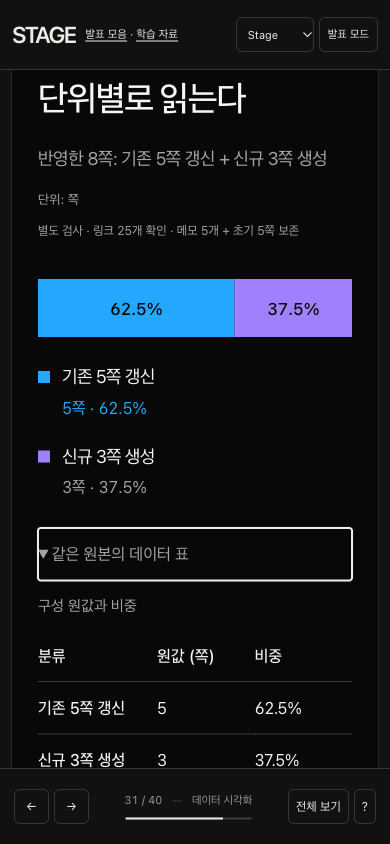
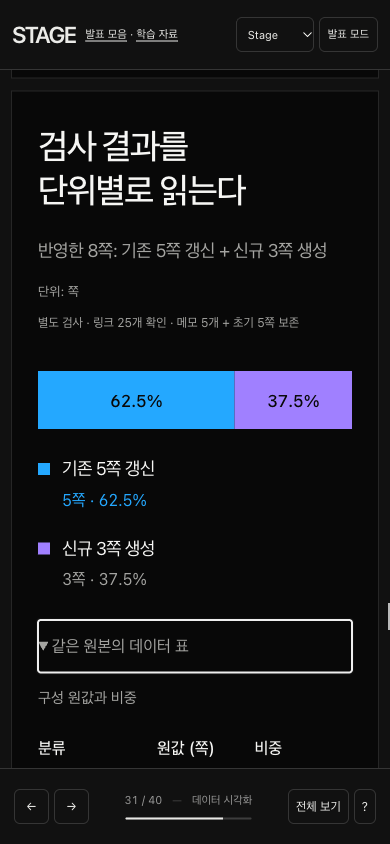
Record the typography and visual review deployment checks

diff --git a/research/llm-wiki-polish-20261029/DEPLOYMENT.md b/research/llm-wiki-polish-20261029/DEPLOYMENT.md
@@ -1,0 +1,35 @@
+# 문장·시각 전달 교정 공개 검수
+
+2026-10-29, 원고 교정 [`7b9cd0c`](https://github.com/OU9999/stage-presentation-kit/commit/7b9cd0c34fb1150572efa3ed8bfe1f11d8f9ee15)과 읽기 제목 가림 수정 [`4b35cfb`](https://github.com/OU9999/stage-presentation-kit/commit/4b35cfb90e5ba363b299c1eac2e77314f2717e1d)을 main에 push했다.
+
+- 원고 배포 [40800433787](https://github.com/OU9999/stage-presentation-kit/actions/runs/40800433787): 같은 SHA 성공. 공개 40장·차트/흐름·참여·모바일·학습 자료를 확인했다.
+- 제목 가림 수정 배포 [40801647000](https://github.com/OU9999/stage-presentation-kit/actions/runs/40801647000): 같은 SHA 성공/API built. 공개 읽기 앵커 회귀와 원값/참여를 다시 확인했다.
+
+최종 Pages API/실행 응답은 `evidence/pages-build.json`·`pages-run.json`, 최종 파일 비교는 `public-http.json`에 있다. 발표·자료·자산·공유 runtime/목차/manifest29파일이 모두200이고 로컬 전체 바이트와 같다.
+
+## 공개 화면과 실제 동작
+
[1 lines of base64/hex data omitted]
+
+| 범위 | 공개 확인 결과 | 근거 |
+| --- | --- | --- |
+| 발표40장 | 최신 원고·잘림/진단/오류0·불필요 사진 메타0 | `public-slides.json`, `public-visual-match.json`, `screens/public-slide-*` |
+| 문장·사진 | 줄 고립을 고친9/12/13/15/23/25/28/38과 사진/인용/도식을 실제 PNG로 확인 | 같은 화면 기록 |
+| 차트 | 같은 단위5/3쪽·8합계·62.5/37.5%·막대 실제 너비·원값 표 일치 | `public-native-visuals.json` |
+| 흐름·표 | 세 단계·같은 원본의 표·1440/390·Enter 접기/펼치기·가로 넘침0 | 같은 파일 |
+| 읽기 앵커 | 새31/33·기존visual-story5/7×1440/390의8경우, 제목이 헤더 아래에 표시 | `public-anchors.json` |
+| 참여·탐색 | A/B/공개·복귀·이어가기10클릭·overview40·presenter양방향·자료→대본→읽기 | `public-navigation.json` |
+| 모바일 읽기 | 40장 전문/순서 누락0·18px·이미지 전체/alt·가로 넘침0 | 같은 파일 |
+| 학습 자료 | 6문서×1440/390 전문 누락0·18px·JS0·키보드 탐색 | `public-documents.json` |
+
+학습 문서의 본문은 원고 교정 배포에서 검수한 내용과 같으며 마지막 수정은 별도 native visual 읽기 CSS 한 줄과 파생 runtime/HTML 버전이다. 문서 전용 CSS와 문서 본문을 바꾸지 않았다.
+
+처음 공개 read#31에서 제목 첫줄이 헤더 뒤로 가리는 것을 발견해 종료하지 않고 교정했다. 수정 전은 `screens/public-native-anchor-390.png`, 수정 후는 `screens/public-anchor-31-390.png`다. 최종390px 차트 제목top123.9px/헤더bottom70px, flow 제목top124px/헤더bottom70px로 확인했다. 모든 회귀의 article.top은 약92px다.
+
+## 브라우저 인계
+
+새 TaskSpace92의 계측p1과 발표자 팝업을 정리했다. 계측 없는 공개 차트 화면 p5(40장·최신revision·5/3원값·편집노드0)를 남겨 finish를 정확히 한 번 호출했다. 이후 브라우저를 다시 조작하지 않았다. 기존 사용자 Space88/84/76·서버4323은 보존했다. `evidence/browser-finish.json`·`public-result.png`에 기록했다.
+
+[발표](https://ou9999.github.io/stage-presentation-kit/presentations/llm-wiki/) · [새 구성 차트](https://ou9999.github.io/stage-presentation-kit/presentations/llm-wiki/index.html#31) · [학습 자료·대본](https://ou9999.github.io/stage-presentation-kit/presentations/llm-wiki/materials/index.html)
+
+이 검수 뒤에는 로그와 결과 기록만 후속 커밋하며 제품/원고/생성물은 마지막 공개 검수 내용과 같다. 후속 push의 원격·최신 Pages 상태를 마지막으로 확인한다.

diff --git a/WORK_LOG.md b/WORK_LOG.md
@@ -1,6 +1,6 @@
 # STAGE 작업 로그
 
-## 현재 교정 — 2026-10-29 문장 줄바꿈·시각 전달 재검토
+## 개선 완료 — 2026-10-29 문장 줄바꿈·시각 전달 재검토
 
 - 새 지침: 사용자가 “스톡 사진 같은 말은 다 없애기”, 어색한 문장 줄바꿈 점검, 인터랙션·사진·차트 등 시각자료의 적절성에 관한 디자인팀 회의를 요청했다. 이전 40장 완성 판정으로 이번 교정을 대신하지 않는다. 설명용 사진임을 반복 해설하는 캡션/alt/발언은 제거하고 실제 내용 설명과 저작자·출처 기록을 구분한다.
 - 목표: 40장과 학습자료/URL을 유지하면서 화면에 남을 문장을 다듬고, 실제 시각 장면과 청중 행동에 도움이 되는 자료를 고른다. 차트는 실제 파일 수/관계 등 검증할 수 있는 수량/구조가 있을 때 사용하며 수치가 없는 성과 그래프를 만들지 않는다. 자동 넘침0만으로 한국어 줄바꿈 품질을 판정하지 않는다.
@@ -16,7 +16,9 @@
 - 공개 발견·범위 보강: 기능7b9cd0c을main에push/Pages40800433787동일SHA성공,공개29파일200·바이트일치와40장/차트원값/참여/자료검수가통과했다. 다만공개mobile390 read#31직접진입을추가관측해 native차트 article.top≈0/H1top31.9/headerbottom70/scrollMargin0으로첫줄가림을확인했다. 다른줄/데이터손실은없지만실사용제목가림은완료로두지않는다.
 - 후속 결정: root가visual.css에서read-mode의직접native visual슬라이드에기존blocks와같은92px scroll-margin만추가한다. 원고/발표mode/차트비율/기타기하값불변,전체runtime파생물재생성·261검사·새차트/flow와기존native예제의모바일header회귀를수행한다. 디자인manager에게직접관측/소유권/범위를전달했고A/B는종료유지다. 이실증으로기존CSS0범위를좁게확대한다.
 - 앵커 교정 로컬 완료: visual.css 읽기모드 native 직접슬라이드에92px scroll-margin 한줄을추가하고전체runtime/HTML파생물재생성·build/비수정verify·261/261 재통과했다. 새31/33와기존visual-story5/7×1440/390 실제이동8경우가article.top≈92·제목헤더아래·넘침0이다.390새31 H1top123.9/headerbottom70,원값표/Enter접기펼치기도통과했다. 실제PNG와anchors.json을저장했다. legacy mode전환은전체읽기라QA는실제next/previous이동을검사하도록고쳤다.
-- 미완료: 후속anchorfix commit/push·동일SHA Pages의최종모바일/공개검수,기록전달.
+- 공개 최종 인수: 원고7b9cd0c(main/Pages40800433787)에이어읽기anchor4b35cfb(main/Pages40801647000)도동일SHA성공/API built를확인했다.최종29파일200/로컬전체바이트동일,새31/33·기존5/7×1440/390공개anchor8경우제목가림0/넘침0,차트5/3원값·비중·폭/flow표·Entertoggle·참여10클릭/presenter/read390재검수통과.앞선동일원고의40장공개화면/사진메타0·자료6×2전문누락0검수도유효하다.새DEPLOYMENT에기능/후속CSS검수범위를구분해기록했다.
+- 종료·전달: 디자인manager/A/B편집종료유지. TaskSpace92의계측p1/팝업을정리하고계측없는공개chart31 p5만남겨finish1회완료,이전사용자공간/서버보존.제품/원고/생성물은최종공개검수4b35cfb와동일하게유지하고후속기록만commit/push한다.
+- 미완료: 요청한문구·40장줄바꿈·시각전달교정·후속헤더fix·검증·기능push/공개인수에는없다.검수기록후속push의원격/최신Pages상태를최종보고직전에확인한다.
 
 ## 개선 완료 — 2026-10-29 사진·인용·참여·실제 확인과 40장 발표
 
